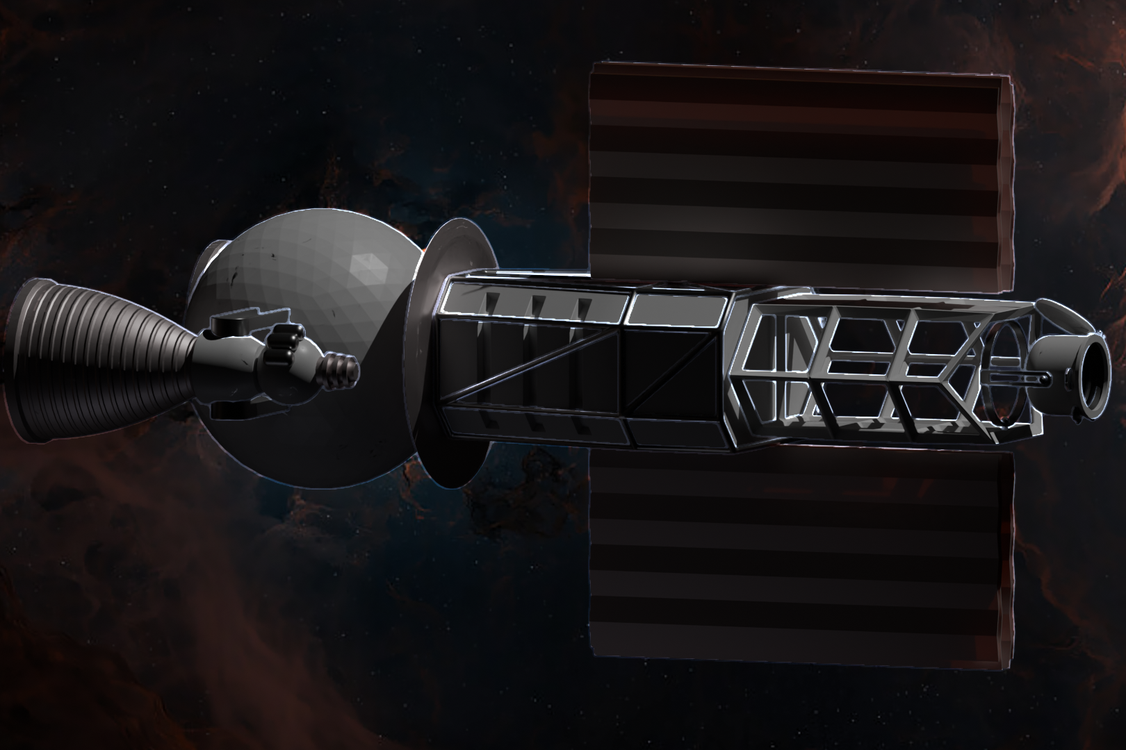
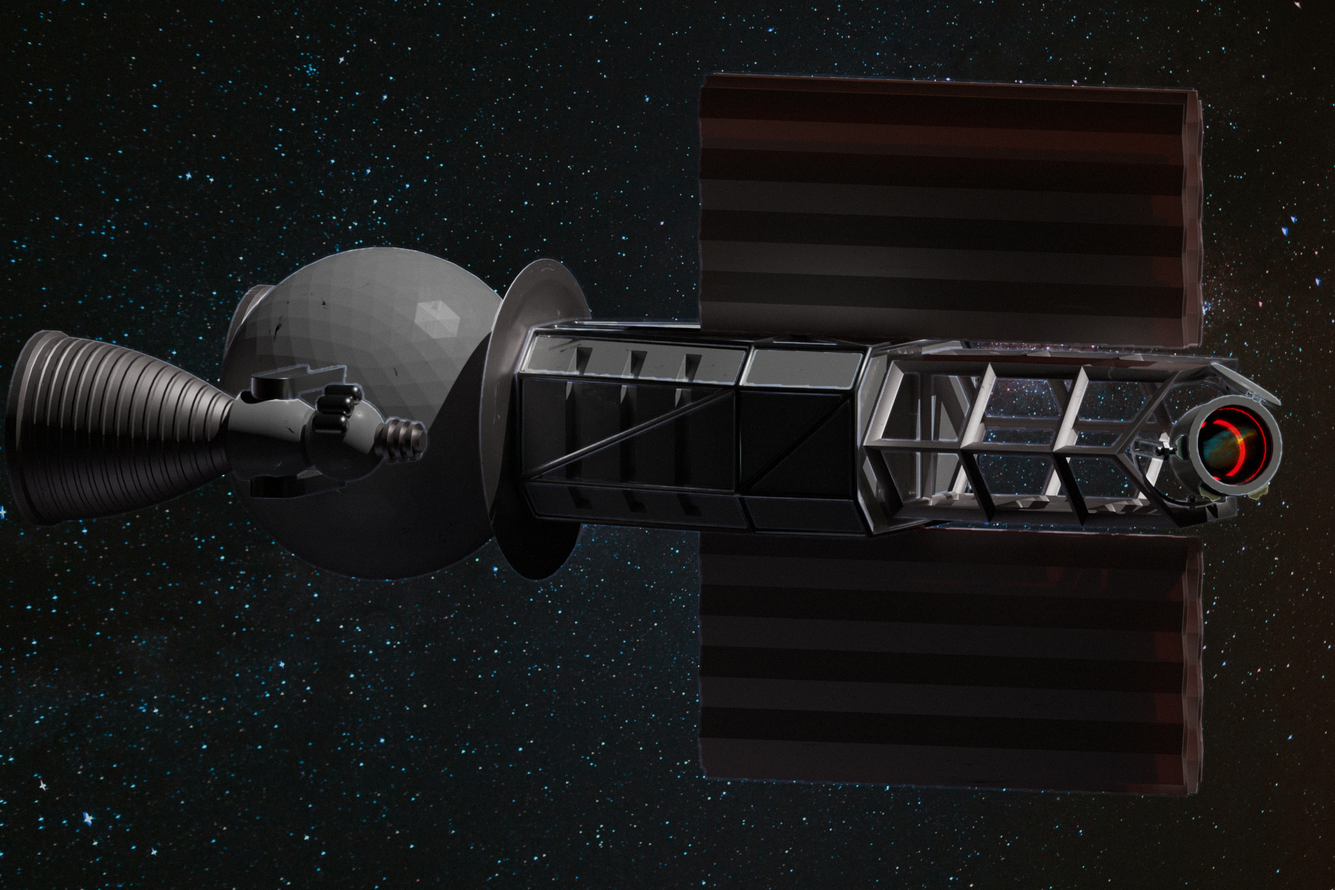
Fixing the home page

diff --git a/index.html b/index.html
@@ -58,95 +58,102 @@
         </header>
 
         <main id="content" class="container-fluid container-lg">
-            <div class="row g-3 border-xl">
+            <div class="row g-3">
 
-                <div class="d-none d-lg-block lens">
+                <!-- Interactive laser lens visual -->
+                <div class="col-12 d-none d-lg-block lens">
                     <img src="./assets/imgs/Lens.png" alt="Image of a lens of the Laser Beam">
                     <img src="./assets/imgs/LensActive.png" alt="Image of a lens of the Laser Beam while active">
-                </div>
+                </div> <!-- col -->
 
-                <article class="col-12">
-                    <section class="section-card text-justify">
-                        <header>
-                            <h1>Welcome to Skyrocket<sup>&reg;</sup></h1>
-                        </header>
-                        <div class="px-4 mt-3 row">
-                            <p class="text-center">Want space rocks? Want them fast? Look no further!</p>
-                            <div class="col-12 col-lg-9">
+                <!-- Introduction -->
+                <div class="col-12">
+                    <article class="content-card text-justify">
+                        <div class="row">
+                            <header class="col-12">
+                                <h1>Welcome to Skyrocket<sup>&reg;</sup></h1>
+                            </header> <!-- col -->
+                            <section class="col-12 col-lg-9 px-5 pt-3">
+                                <h2 class="text-center">Want space rocks? Want them fast? Look no further!</h2>
                                 <p>Founded on innovation and ambition, Skyrocket<sup>&reg;</sup> began as a visionary startup that achieved the unimaginable: altering the trajectory of an asteroid in 2084, <strong>safeguarding</strong> our planet and <strong>proving</strong> that the limits of space are meant to be challenged.</p>
                                 <p>Today, Skyrocket<sup>&reg;</sup> continues to push the boundaries of space technology, developing advanced spacecraft that redefine efficiency, safety, and capability. With cutting-edge propulsion, intelligent control systems, and modular versatility, our vehicles empower humanity to explore, transport, and harness the resources of the cosmos like never before.</p>
                                 <p>At Skyrocket<sup>&reg;</sup>, we don't just reach for the stars—<em>we make them reachable</em>.</p>
-                            </div>
-                            <div class="col-12 col-lg-3">
-                                <a href="./assets/imgs/Asteroids.png" target="_blank" class="zoom-image">
-                                    <img src="./assets/imgs/Asteroids.png" alt="Image that highlights the asteroids of the Solar System" class="img-fluid d-block m-auto">
-                                </a>
-                            </div>
-                        </div>
-                    </section>
-                </article>
+                            </section> <!-- col -->
+                            <aside class="col-12 col-sm-5 col-lg-3 m-auto px-5">
+                                <figure>
+                                    <a href="./assets/imgs/Asteroids.png" target="_blank" class="zoom-image">
+                                        <img src="./assets/imgs/Asteroids-Thumbnail.png" alt="Image that highlights how many asteroids there are in the Solar System" class="img-fluid d-block m-auto content-border-transparent">
+                                    </a>
+                                    <figcaption>There are a lot of Near-Earth asteroids orbiting around the Sun.</figcaption>
+                                </figure>
+                            </aside> <!-- col -->
+                        </div> <!-- row -->
+                    </article>
+                </div> <!-- col -->
 
-                <section class="col-12">
+                <!-- Roadmap -->
+                <article class="col-12">
                     <header class="blur-bg">
                         <h2>Roadmap</h2>
                     </header>
-                    <div class="roadmap">
+                    <div id="roadmap">
                         <hr id="timeline-horizontal">
                         <div id="timeline-vertical"></div>
-                        <article class="event event-point" id="event1">
+                        <div class="event event-point" id="event1">
                             <div class="event-description">
                                 <p>Foundation</p>
                                 <p><time datetime="2084-06-09">6/9/2084</time></p>
                             </div>
-                        </article>
-                        <article class="event event-point" id="event2">
+                        </div>
+                        <div class="event event-point" id="event2">
                             <div class="event-description">
                                 <p>Pitch Deck Success</p>
                                 <p><time datetime="2086-12-11">12/11/2086</time></p>
                             </div>
-                        </article>
-                        <article class="event event-point" id="event3">
+                        </div>
+                        <div class="event event-point" id="event3">
                             <div class="event-description">
                                 <p>Market Success</p>
                                 <p><time datetime="2089-04-20">4/20/2089</time></p>
                             </div>
-                        </article>
-                        <article class="event" id="event-current">
+                        </div>
+                        <div class="event" id="event-current">
                             <svg xmlns="http://www.w3.org/2000/svg" width="16" height="16" class="bi bi-caret-right-fill dont-print" viewBox="0 0 16 16">
                                 <path d="m12.14 8.753-5.482 4.796c-.646.566-1.658.106-1.658-.753V3.204a1 1 0 0 1 1.659-.753l5.48 4.796a1 1 0 0 1 0 1.506z"/>
                             </svg>
                             <div class="event-description">
                                 <p>The Present</p>
                             </div>
-                        </article>
-                        <article class="event event-point" id="event4">
+                        </div>
+                        <div class="event event-point" id="event4">
                             <div class="event-description">
                                 <p>Skyrocket<sup>&reg;</sup> Space Station</p>
                                 <p><time datetime="2092">2092</time></p>
                             </div>
-                        </article>
-                        <article class="event event-point" id="event5">
+                        </div>
+                        <div class="event event-point" id="event5">
                             <div class="event-description">
                                 <p>Pusher Ship Project</p>
                                 <p><time datetime="2100">2100</time></p>
                             </div>
-                        </article>
+                        </div>
                     </div>
-                </section>
+                </article> <!-- col -->
                 
-                <article class="col-12 col-xl-8">
-                    <section class="section-card">
-                        <header>
-                            <h2>Our Product</h2>
-                        </header>
-                        <div class="row g-0">
-                            <div class="col-12 col-lg-7">
+                <!-- Our Product -->
+                <div class="col-12 col-xl-8">
+                    <article class="content-card">
+                        <div class="row">
+                            <header class="col-12">
+                                <h2>Our Product</h2>
+                            </header> <!-- col -->
+                            <div class="col-12 col-sm-8 col-lg-7 m-auto">
                                 <a href="./assets/imgs/Spaceship-BeautyShot.png" target="_blank" class="zoom-image">
-                                    <img src="./assets/imgs/Spaceship-BeautyShot.png" alt="Image of the advertised spaceship" class="img-fluid h-100 content-border object-fit-cover">
+                                    <img src="./assets/imgs/Spaceship-BeautyShot-Thumbnail.jpg" alt="Image of the advertised spaceship" class="img-fluid w-100 content-border">
                                 </a>
-                            </div>
-                            <div class="col-12 col-lg-5 px-4">
-                                <h3 class="mt-2">Flux Overflow</h3>
+                            </div> <!-- col -->
+                            <section class="col-12 col-lg-5">
+                                <h3 class="mt-3">Flux Overflow</h3>
                                 <p>The Flux Overflow class deep space unmanned mining-transportation space vehicle is the <strong>most cost-efficient</strong> ship on the market.</p>
                                 <ul>
                                     <li>Nuclear propulsion</li>
@@ -155,28 +162,31 @@
                                     <li>Push & tug engine modes</li>
                                     <li>Retractable radiators</li>
                                 </ul>
-                            </div>
-                        </div>
-                    </section>
-                </article>
+                            </section> <!-- col -->
+                        </div> <!-- row -->
+                    </article>
+                </div> <!-- col -->
 
-                <article class="col-md-6 mx-auto col-xl-4">
-                    <section class="section-card">
-                        <header>
-                            <h2>Our Offers</h2>
-                        </header>
-                        <div class="px-4 pt-2">
-                            <p class="mb-0">Now <strong>only</strong></p>
-                            <p class="ms-5 mb-2"><span class="cost-text"><strong>$4200M</strong></span> per ship</p>
-                            <button class="button buy-button ms-5">BUY</button>
-                            <hr>
-                            <p class="mb-0">Or rent it for</p>
-                            <p class="cost-text ms-5 mb-2"><strong>$1.5M/day*</strong></p>
-                            <button class="button rent-button ms-5">RENT</button>
-                            <p class="footnote mt-3">*Potential post-rent repair costs not accounted.</p>
-                        </div>
-                    </section>
-                </article>
+                <!-- Our Offers -->
+                <div class="col-md-6 mx-auto col-xl-4">
+                    <article class="content-card">
+                        <div class="row">
+                            <header class="col-12">
+                                <h2>Our Offers</h2>
+                            </header> <!-- col -->
+                            <div class="col-12 pt-3 px-5">
+                                <p class="mb-0">Now <strong>only</strong></p>
+                                <p class="ms-5 mb-2"><span class="cost-text"><strong>$4200M</strong></span> per ship</p>
+                                <button class="button buy-button ms-5">BUY</button>
+                                <hr>
+                                <p class="mb-0">Or rent it for</p>
+                                <p class="cost-text ms-5 mb-2"><strong>$1.5M/day*</strong></p>
+                                <button class="button rent-button ms-5">RENT</button>
+                                <p class="footnote mt-3">*Potential post-rent repair costs not accounted.</p>
+                            </div> <!-- col -->
+                        </div> <!-- row -->
+                    </article>
+                </div> <!-- col -->
 
             </div>
         </main>

diff --git a/src/style.css b/src/style.css
@@ -38,7 +38,10 @@
 }
 .high-contrast
 {
-    --bg-color-transparent: rgba(0, 0, 0, 1);
+    --bg-color: #311b4e;
+    --bg-color-transparent: rgba(20, 20, 20, 1);
+    --bg-dark-grey-color: #23242b;
+    --bg-light-grey-color: #383a42;
     
     --text-color: #4cecff;
     --text-muted-color: #00ccff;
@@ -113,22 +116,21 @@ p, a, li
     position: static;
 }
 
-.section-card
+.content-card
 {
     border-bottom: .15rem solid var(--bg-dark-grey-color);
     border-top: .1rem solid var(--bg-light-grey-color);
     border-radius: 1rem;
-    height: 100%;
     
     overflow: hidden;
     background-color: var(--bg-color-transparent);
     backdrop-filter: var(--bg-blur);
 }
-.high-contrast .section-card
+.high-contrast .content-card
 {
     border-color: white;
 }
-.section-card header
+.content-card header
 {
     padding: .5rem;
 
@@ -142,10 +144,6 @@ p, a, li
     
     background-color: var(--bg-color-transparent);
     backdrop-filter: var(--bg-blur);
-}
-.content-border
-{
-    border: 1px inset var(--bg-light-grey-color);
 }
 .text-justify
 {
@@ -196,7 +194,11 @@ video
     width: 100%;
 }
 
-.zoom-image img
+.content-border
+{
+    border: .1rem inset var(--bg-light-grey-color);
+}
+.content-border-transparent
 {
     border: .1rem solid transparent;
 }
@@ -204,7 +206,10 @@ video
 {
     opacity: .8;
     border: .1rem solid white;
-
+    border-radius: .5rem;
+}
+.zoom-image:hover
+{
     cursor: zoom-in;
 }
 
@@ -296,11 +301,11 @@ figcaption
     margin-top: 1rem;
 
     color: var(--text-muted-color);
-    text-align: end;
+    text-align: left;
 }
 @media screen and (max-width: 767px)
 {
-    figure
+    /* figure
     {
         position: relative;
         max-height: 10rem;
@@ -319,7 +324,7 @@ figcaption
         text-align: start;
         background-color: var(--bg-color-transparent);
         backdrop-filter: var(--bg-blur);
-    }
+    } */
 }
 
 details
@@ -364,7 +369,7 @@ caption
 /* #endregion */
 
 /* #region Offers */
-.section-card p.footnote
+.content-card p.footnote
 {
     color: var(--text-muted-color);
     text-align: end;
@@ -622,12 +627,12 @@ nav li a svg
 }
 @media screen and (max-width: 991px)
 {
-    .roadmap
+    #roadmap
     {
         position: relative;
         margin: 0 1rem 2rem 1rem;
     }
-    .roadmap #timeline-horizontal
+    #roadmap #timeline-horizontal
     {
         display: none;
     }
@@ -666,12 +671,12 @@ nav li a svg
 }
 @media screen and (min-width: 992px)
 {
-    .roadmap
+    #roadmap
     {
         position: relative;
         margin: 2rem 4rem 7rem 4rem;
     }
-    .roadmap #timeline-horizontal
+    #roadmap #timeline-horizontal
     {
         display: block;
         border-color: var(--timeline-border-color);
